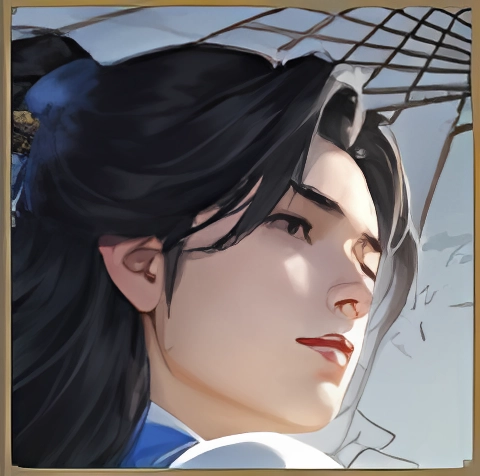
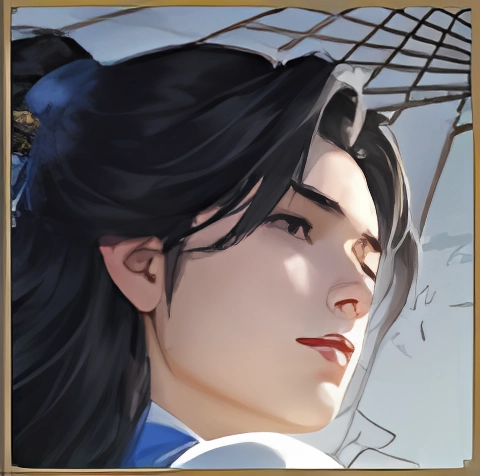
西晋、东晋卡池更新，新增 8 位角色
- 东晋：温峤、王羲之、谢安（王马天下）
- 西晋：周处、李矩、石崇、绿珠、马隆（晋洛兴替）
- 重切片后对东晋/西晋共 35 张头像重新 4x 超分
- NAME_MAPPING 补充「左菜 -> 左棻」误读

diff --git a/src/data.js b/src/data.js
@@ -2,7 +2,7 @@ export const namespace = "mjs";
 
 /* DATA_START */
 export const data = {
-    "next_id": 188,
+    "next_id": 196,
     "values": [
         {
             "id": 0,
@@ -942,6 +942,46 @@ export const data = {
         {
             "id": 187,
             "name": "西晋/左棻",
+            "pack": "晋洛兴替"
+        },
+        {
+            "id": 188,
+            "name": "东晋/温峤",
+            "pack": "王马天下"
+        },
+        {
+            "id": 189,
+            "name": "东晋/王羲之",
+            "pack": "王马天下"
+        },
+        {
+            "id": 190,
+            "name": "东晋/谢安",
+            "pack": "王马天下"
+        },
+        {
+            "id": 191,
+            "name": "西晋/周处",
+            "pack": "晋洛兴替"
+        },
+        {
+            "id": 192,
+            "name": "西晋/李矩",
+            "pack": "晋洛兴替"
+        },
+        {
+            "id": 193,
+            "name": "西晋/石崇",
+            "pack": "晋洛兴替"
+        },
+        {
+            "id": 194,
+            "name": "西晋/绿珠",
+            "pack": "晋洛兴替"
+        },
+        {
+            "id": 195,
+            "name": "西晋/马隆",
             "pack": "晋洛兴替"
         }
     ]

diff --git a/src_mjs/data.js b/src_mjs/data.js
@@ -2,7 +2,7 @@ export const namespace = "mjs";
 
 /* DATA_START */
 export const data = {
-    "next_id": 188,
+    "next_id": 196,
     "values": [
         {
             "id": 0,
@@ -942,6 +942,46 @@ export const data = {
         {
             "id": 187,
             "name": "西晋/左棻",
+            "pack": "晋洛兴替"
+        },
+        {
+            "id": 188,
+            "name": "东晋/温峤",
+            "pack": "王马天下"
+        },
+        {
+            "id": 189,
+            "name": "东晋/王羲之",
+            "pack": "王马天下"
+        },
+        {
+            "id": 190,
+            "name": "东晋/谢安",
+            "pack": "王马天下"
+        },
+        {
+            "id": 191,
+            "name": "西晋/周处",
+            "pack": "晋洛兴替"
+        },
+        {
+            "id": 192,
+            "name": "西晋/李矩",
+            "pack": "晋洛兴替"
+        },
+        {
+            "id": 193,
+            "name": "西晋/石崇",
+            "pack": "晋洛兴替"
+        },
+        {
+            "id": 194,
+            "name": "西晋/绿珠",
+            "pack": "晋洛兴替"
+        },
+        {
+            "id": 195,
+            "name": "西晋/马隆",
             "pack": "晋洛兴替"
         }
     ]

diff --git a/slicer_mjs/slicer.py b/slicer_mjs/slicer.py
@@ -38,7 +38,7 @@ NAME_MAPPING = {
     "司马相如": ["与马相如"],
     "金日磾": ["金日殚"],
     "金日磾": ["金日殚"],
-    "左棻": ["左荣"],
+    "左棻": ["左荣", "左菜"],
     # 在这里继续添加你遇到的生僻字或错误识别对
 }
 
